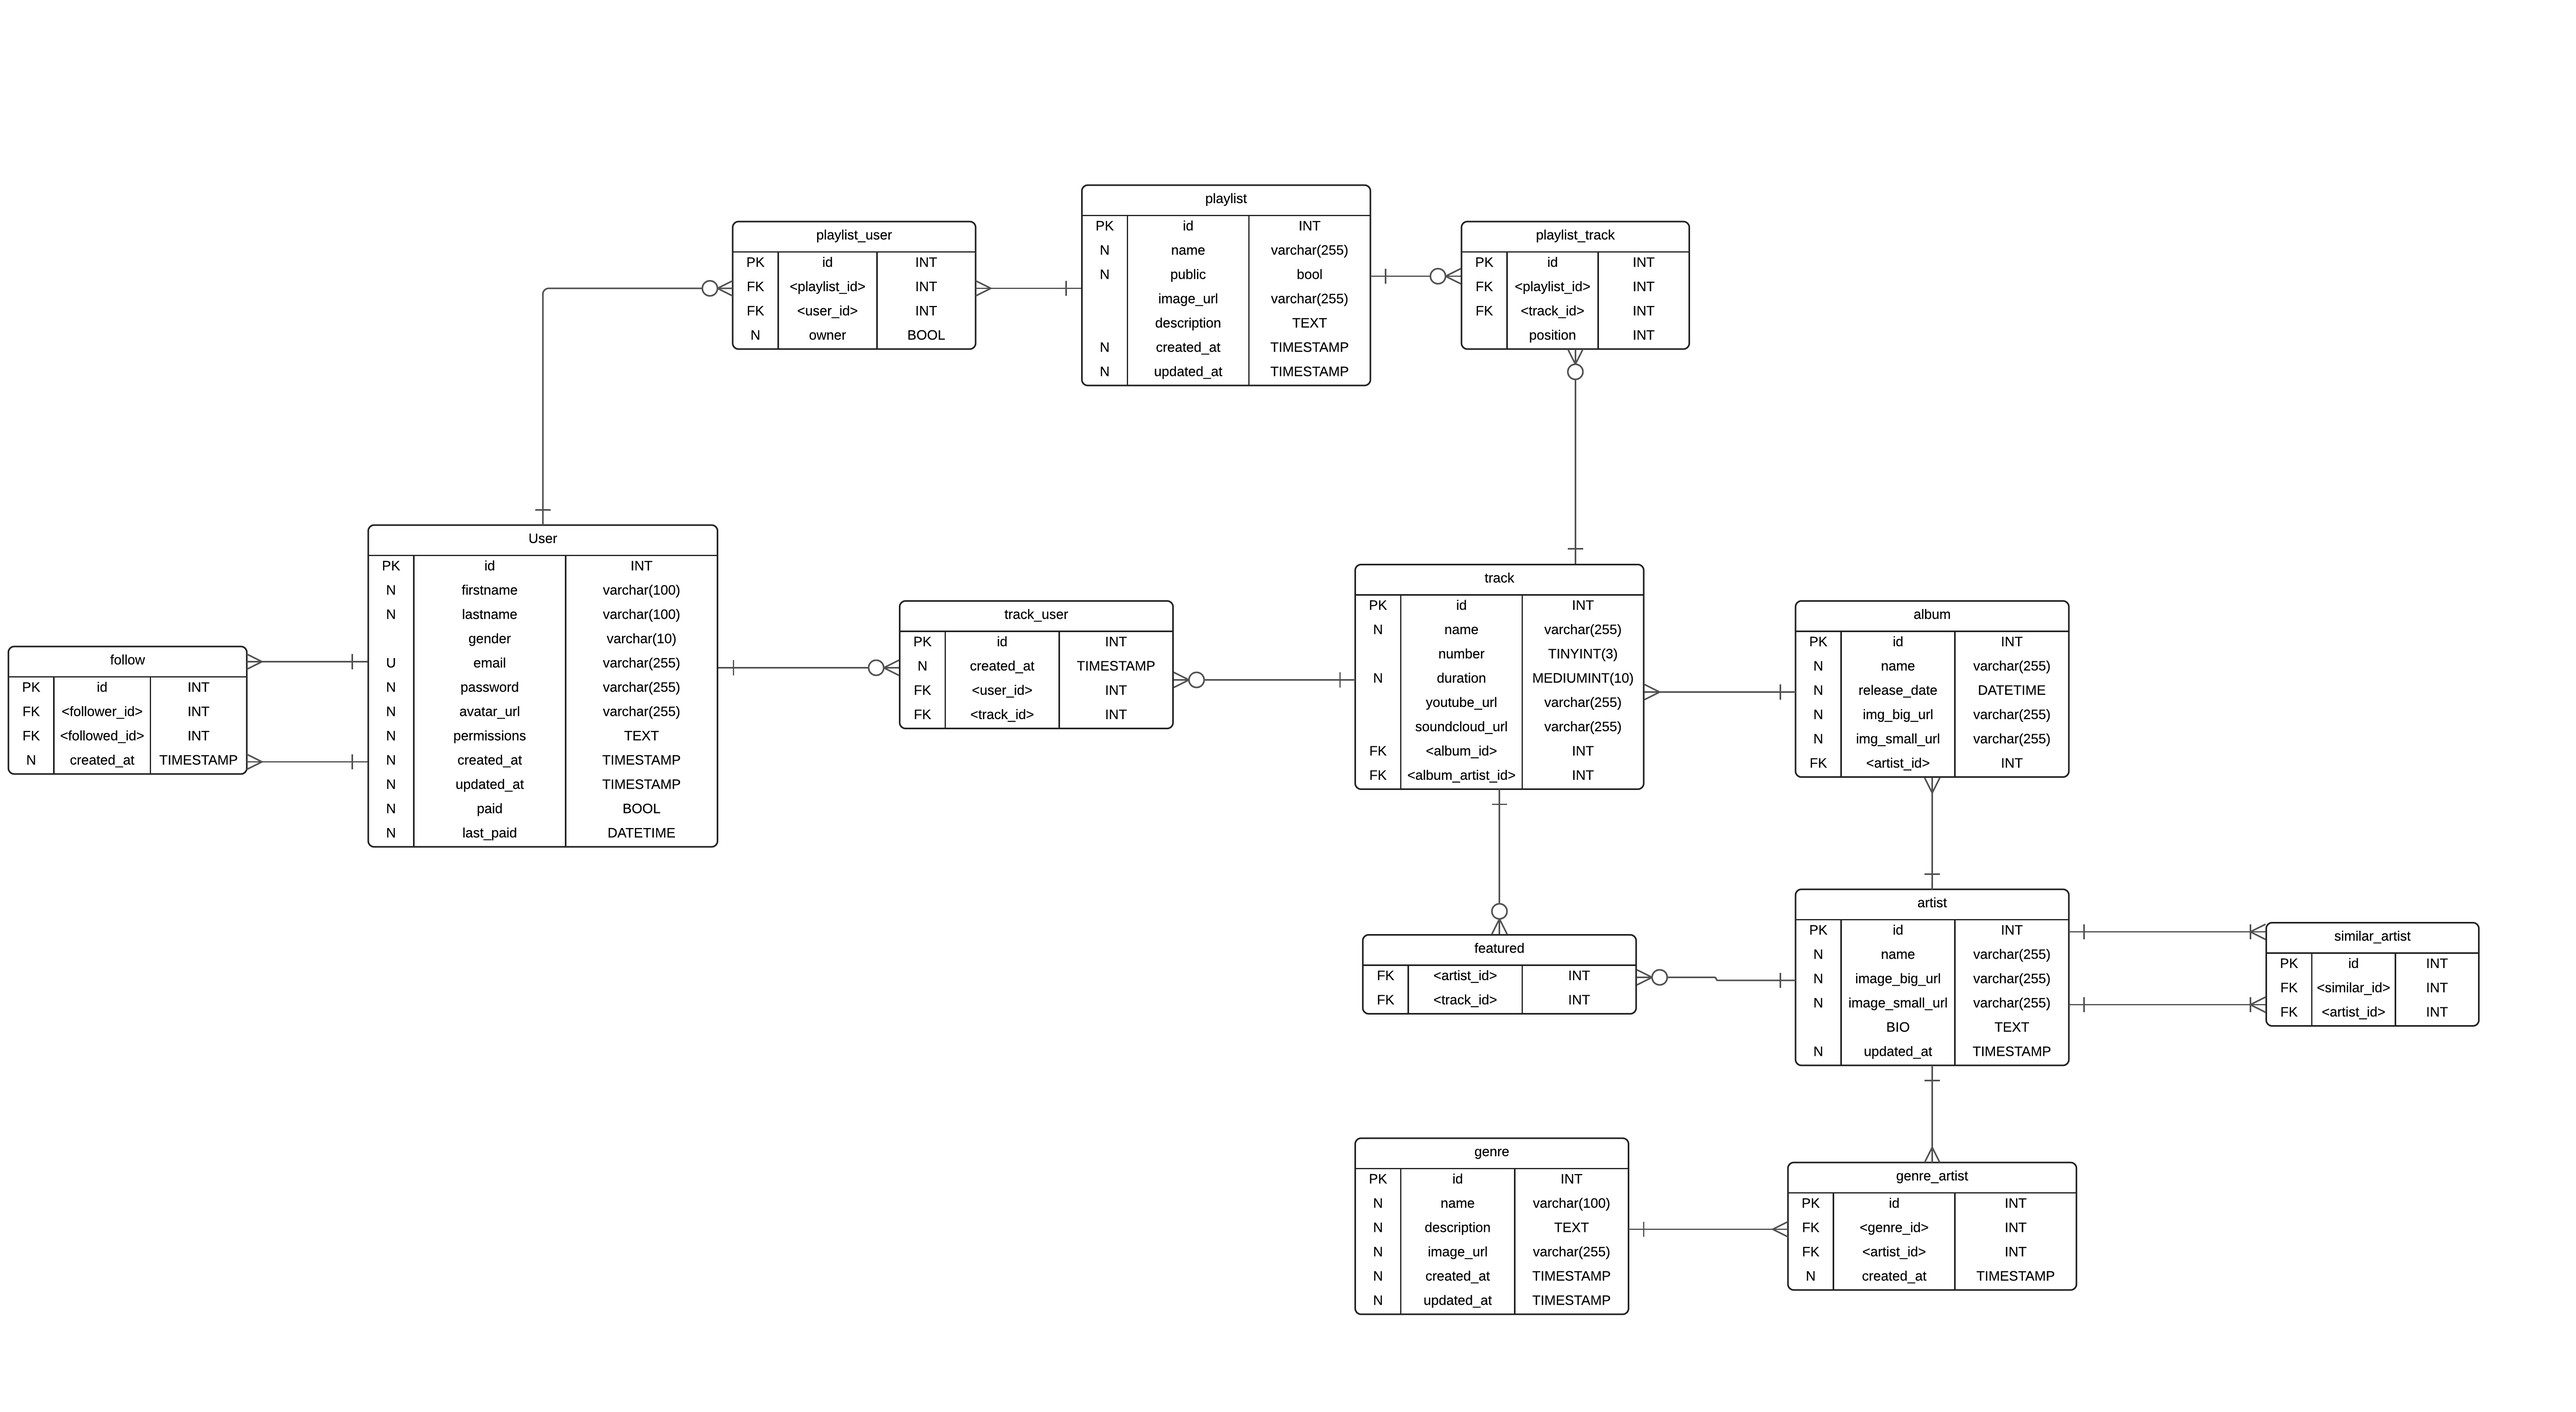
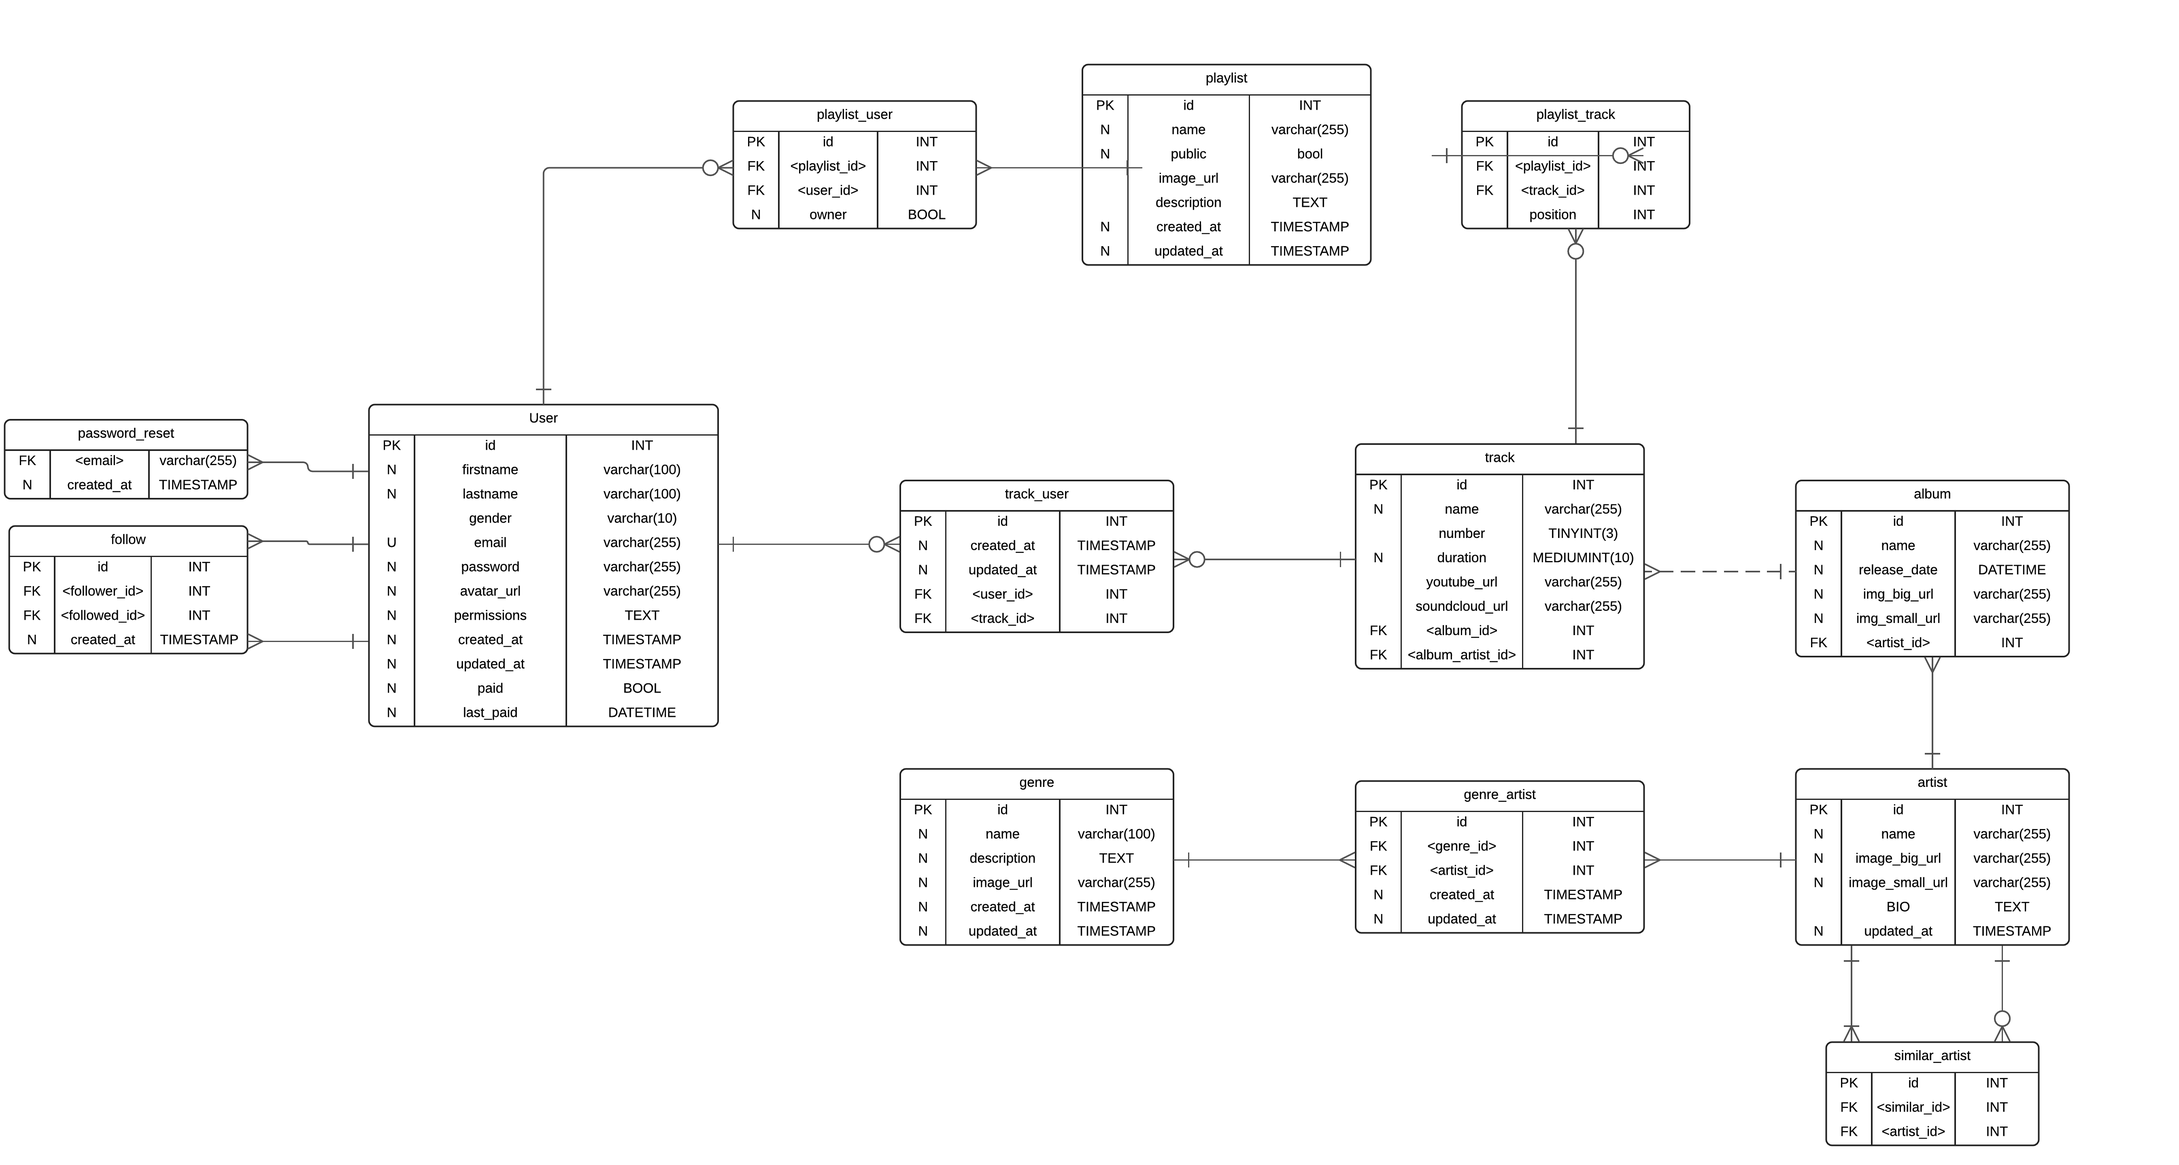
Database Dummy data Added
MusifyDB moved to Database Folder
Database Dummy Data Added
Documents Updated.

diff --git a/Documenten/Diagrams.md b/Documenten/Diagrams.md
@@ -69,8 +69,60 @@ De `name` staat voor de naam van het `Genre`, de `description` geeft korte uitle
 ## Database Design
 ![dbDiagram](images/v1/dbo.png)
 
-## Database Design
-![cDiagram](images/v1/class.png)
-
+#### Uitleg
+Ook bij het database ontwerp zal ik beginnen bij de `User` met dezelfde reden als bij het ERD.
+Het database ontwerp heeft met fields (attributen in ERD), en de relationship ruiten worden nu entiteiten. 
+<Br>
+De `User` heeft een de standaard gegevens die nodig zijn, en het profiel persoonlijker kunnen maken voor anderen. 
+elke `id` is uniek, en word automatisch aan een `User` gebonden. Zo krijgt gebruiker1 het `id` 1, en krijgt gebruiker2 het `id` 2, etc...
+<br>
+ook zijn `email` en `username` unieke namen, en kunnen deze niet 2x voorkomen in de database. Indien er dus al een `User` is met de naam gebruiker1, dan kan er niet nog een `User` zijn met de naam gebruiker1.
+Hetzelfde geld met de `email`, er mag maar 1 `email` zijn, en er kunnen niet 2 `Users` zijn met hetzelfde email address.
+<br>
+Ook word er gekeken of de `User` al betaald heeft, hiervoor is er een boolean `paid`, dat aangeeft of het een `paid` of `free` `User` is. (zoals te zien in ERD)
+Indien de `User` op `paid` staat, dan word er ook gekeken wanneer de laatste keer is dat de `User` heeft betaald. Wanneer de `User` namelijk betaald dan zal de tijd en datum hier opgeslagen worden.
+Als de `User` inlogt dan word gecontroleerd of de `User` een `paid` of een `free` user is, en indien `paid` wanneer de laatste keer is.
+Als de `User` langer dan een maand geleden betaald heeft, dan word de gebruiker automatisch op `free` gezet.
+<br>
+net als `User` heeft ook `Song` een `id` die dezelfde functie heeft, maar dan voor de `Songs`.
+`Song` heeft opzich dezelfde fields behouden als dat er op het ERD stonden. 
+Het enige verschil is dat `url` op het ERD, is vergroot naar 3 fields. Hiervoor kan er een URL voor youtube gebruikt worden `youtube_url`, een url voor soundcloud `soundcloud_url`, maar er moet een url van onze eigen server zijn `server_url`.
+Zo kan een `User` ook via externe servers de muziek luisteren, als onze servers overbelast zijn, of traag worden.
+<br>
+Dan heeft een `Song` ook nog foreign Keys. Deze koppelen entiteiten met elkaar, en zo kan je makkelijk een `Song` koppelen aan een `Album`, doormiddel van het `id`.
+In `Song` komt bijvoorbeeld het `id` van het `Album` waarvan de `Song` is.
+een `Song` word dan ook gekoppeld met een `Album`, en met een `Artist`.
+<br>
+Een `User` kan nummers opslaan, dit word bijgehouden in de `song_user` entiteit, dat een relationship was op het ERD (ruit).
+Hierbij zijn er 2 Foreign Keys, die de `User` koppelen met de `Song` dat opgeslagen moet worden.
+Ook word er bijgehouden wanneer de `User` de `Song` heeft opgeslagen met `created_at`.
+<br>
+Een `User` kan ook een andere `User` volgen, de relationship die hier op het ERD voor werd gebruikt word nu ook omgezet naar een entiteit, dat beide `Users` opslaat en koppeld met elkaar.
+Zo is er een Foreign Key met de naam `Follower_id` dit is de `User` die een andere `USer` volgt, en `followed_id` dat is de `User` dat gevolgt word. Hiervoor word ook bijgehouden wanneer een `User` een andere `User` is gaan volgen.
+<br>
+De `Playlist` entiteit heeft over het algemeen precies dezelfde fields als op het ERD waren bij de attributen. Hierbij word nu alleen ook bijgehouden wanneer de `Playlist` is aangemaakt, en wanneer het voor de laatste keer is bewerkt, met de `updated_at` field.
+Dit houd bij wanneer je de `Playlist` voor het laatst hebt bewerkt door de naam te veranderen, het public te maken, een afbeelding te veranderen, of om een `Song` toe te voegen.
+<br>
+Als een `User` een `Playlist` maakt, dan word deze gekoppelt doormiddel van de `playlist_user` entiteit. Hierbij word de `id` van de `Playlist` gekoppelt met de `id` van de `User`.
+Ook `owner` field word dan op 1 gezet, wat inhoud dat de `User` de maker/eigenaar is van de `Playlist`. 
+Wanneer een andere gebruiker deze `Playlist` vervolgens toevoegt, dan is de `owner` 0 voor die `User`, wat betekent dat de `User` niet de eigenaar is van de `Playlist`.
+De `User` waarbij `owner` op 1 staat, kan alleen dingen aanpassen en toevoegen, en de `Users` waarbij `owner` op 0 staat, kunnen alleen bekijken en luisteren.
+<br>
+Je kan natuurlijk ook een `Song` aan een `Playlist` toevoegen, hiervoor is de `playlist_song` entiteit.
+Deze koppelt een `Song` aan een `Playlist` doormiddel van de `id`. Ook kan er een bepaalde positie gezet worden voor de `Song`. Zo kan een `Song` als eerste voorkomen, maar ook op een andere positie.
+<br>
+Elke `Song` heeft 1 `Album`, zoals eerder al is gezegt word er aan een `Song` een `Album` gekoppeld.
+De album heeft ook vrijwel dezelfde fields behouden als op het ERD. Het enige is dat de `image` is gesplitst in 2 afbeeldingen. namelijk `img_big_url` en `img_small_url`, dit zijn voor de grote variant en de kleine variant van de `image`.
+Een `Album` heeft ook altijd 1 `Artist` en word doormiddel van een Foreign Key aan de `Artist` gekoppelt via het `id` van de `Artist`.
+<br>
+De `Artist` heeft ook alles behouden, en net als de `Album` alleen de `image` gesplitst in hetzelfde principe.
+Een `Artist` heeft ook een soortgelijke `Artist`, dit word in de `similar_artist` entiteit dat eerst een relationship was op het ERD, geregelt.
+Hierbij word de `id` van de `Artist` gekoppeld met het `id` van de `Artist` dat hetzelfde soort muziek maakt.
+<br>
+Een `Song` kan ook andere `Artists` zijn, die mee hebben geholpen aan de `Song`. Hierbij worden de `id` van de `Song` en de `id` van de `Artist` gekoppeld.
+en is de `Artist` `featured` in de `Song`.
+<br>
+De `Genre` bevat ook dezelfde fields als op het ERD is. 
+`genre_artist` houd bij welke `Genres` de `Artist` maakt of heeft, en koppelt de `id` van `Genre` met de `id` van `Artist`.
 
 
